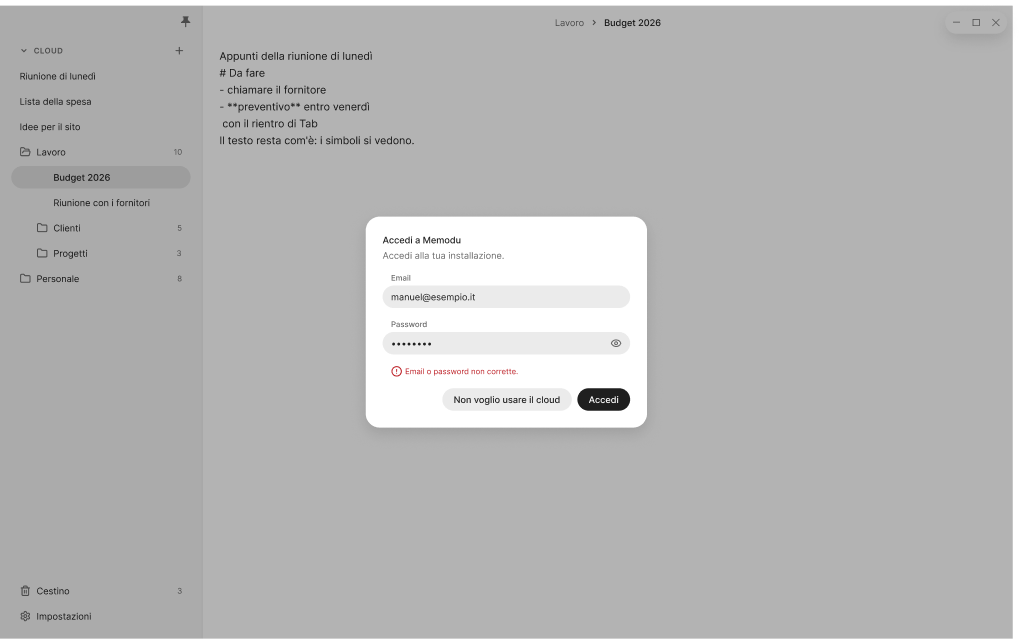
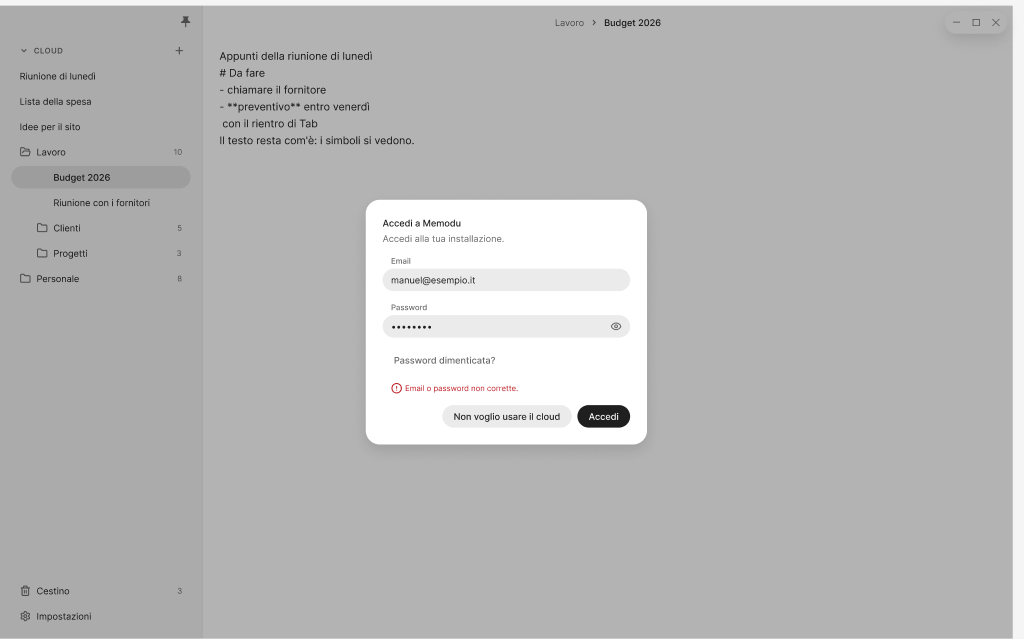
DEC-132: mockup del recupero, del cambio della password e dei dispositivi collegati

Changed region(s): [[0.3438, 0.2973, 0.6562, 0.7136], [0.5938, 0.5055, 0.625, 0.5352]]

diff --git a/docs/avanzamento.md b/docs/avanzamento.md
@@ -2,7 +2,7 @@
 
 <!-- Stato della documentazione (vedi "Lo stato della documentazione" nella guida). Si sovrascrive; le modifiche non vanno nello storico. Chi riprende il lavoro parte da qui. -->
 
-**Ultimo aggiornamento:** 14/10/2026 (account nel database per la prova (DEC-132): Fase 1 di RF-14 e RF-16 approvata; Fase 2 approvata (FL-14, FL-15, RB-97 … RB-100); Fase 3 approvata (EN-05, EN-06 e stati del dispositivo; email e cancellazione dell'account non dall'app); Fase 4 approvata (wireframe di SC-05 con il recupero, SC-08 Cambia password, SC-09 Dispositivi collegati, collegamenti nel box dell'account di SC-06), Fase 5 in corso: nella libreria CMP-33 Casella, CMP-34 Chiave da conservare, CMP-35 Cambia password, CMP-36 Dispositivi collegati, CMP-22 con Recupero e Chiave nuova, CMP-32 con i collegamenti (pulsanti tenui, scelta di Manuel Cucca); token raggio-casella approvato; libreria da pubblicare (la pubblica Manuel Cucca), poi i mockup; scenario d'uso approvato da Manuel Cucca, RF-16 da Should a Must, RF-10 con i blocchi separati per utente; la chiave nuova dopo un recupero la manda l'utente a Manuel Cucca; criteri di accettazione in Fase 8; idea ID-39, diario «a rete», da riprendere dopo. Prima, 09/10/2026: versione 1.1.0 di prova: numero di versione a 1.1.0 su `main` e tag `1.1.0` senza «v» (scelta di Manuel Cucca: il rilascio su GitHub non parte, la 1.0.0 ha la priorità), installata sul PC di Manuel Cucca. Prima, 09/10/2026: bollicina nelle note di rilascio della 1.1.0 (CHANGELOG) e nella guida per gli utenti (sezione «La bollicina del formato», nota rapida, Locale), approvate da Manuel Cucca; la bollicina è pronta per il rilascio con la 1.1.0, dopo la 1.0.0. Prima, 09/10/2026: bollicina: libreria pubblicata da Manuel Cucca, mockup di SC-02, SC-03 e del file `.md` di Locale aggiornati al ritocco ed esportati di nuovo; prossimo: il rilascio della 1.1.0 dopo la 1.0.0 (note di rilascio e guida con la bollicina). Prima, 09/10/2026: bollicina, libreria Figma aggiornata al ritocco (bollicina alta 32, nella nota rapida accanto a Chiudi, cassetto centrato o su due righe allineato in basso, anche nel codice), da pubblicare; poi i mockup. Prima, 09/10/2026: bollicina, attività 5 fatta: prove a mano TC-12, TC-167 … TC-171 e TC-173 superate nell'app di sviluppo, TC-172 superato; restano la libreria Figma e i mockup da aggiornare al ritocco grafico (con l'ok di Manuel Cucca), poi il rilascio con la 1.1.0. Prima, 09/10/2026: bollicina, attività 4 fatta: 8 prove automatiche dell'interfaccia (componente, nota aperta con l'editor vero, file `.md` e `.txt`, nota rapida), 274 prove in tutto; prossimo: attività 5, prove a mano. Prima, 09/10/2026: bollicina, attività 3 fatta: bollicina nella nota aperta, nella nota rapida (subito a sinistra di Chiudi, ritocco di Manuel Cucca) e nei file `.md`, alta 32 come gli altri pulsanti; provata nell'app di sviluppo; il formato acceso resta anche dopo uno spazio e quando il cursore torna nello stesso punto (266 prove); libreria Figma e mockup da aggiornare al ritocco; prossimo: attività 4, prove automatiche dell'interfaccia. Prima, 09/10/2026: bollicina, attività 2 fatta: componente `Bollicina.tsx` (CMP-10) con il cassetto su una o due righe, l'editor avvisa del formato e applica la voce scelta; prossimo: attività 3, la bollicina nella nota aperta, nella nota rapida e nei file `.md`. Prima, 09/10/2026: bollicina, attività 1 fatta: formato mostrato e comandi del cassetto in `formati.ts`, `<u>`, formato in attesa e `-[]` in `scrittura.ts`, 21 prove automatiche nuove (264 in tutto); prossimo: attività 2, la bollicina collegata all'editor. Prima, 09/10/2026: Fase 8 di RF-02 per la bollicina approvata; prossimo: attività 1 (comandi): TC-12 riscritto, TC-167 … TC-173, TC-11 e TC-13 rinviati con le scorciatoie; cinque attività di sviluppo. Prima, 09/10/2026: Fase 7 di RF-02 per la bollicina approvata; prossimo: Fase 8 (piano di test): editor CodeMirror confermato, comandi della bollicina sopra la libreria, scorciatoie rinviate da Manuel Cucca (vedi Rinvii). Prima, 09/10/2026: Fase 6 di RF-02 per la bollicina approvata; prossimo: Fase 7 (architettura): libreria pubblicata due volte (icone a tracciato unico e CMP-10; poi CMP-23 con la bollicina), file dei mockup aggiornato con i colori delle icone e i testi rimessi, mockup nuovi di SC-03 (bollicina chiusa, cassetto aperto, nota nuova con T), SC-02 (cassetto aperto) e del file `.md` di Locale; pillola e menu `/` SUPERATI. Prima, 09/10/2026: Fase 5 di RF-02 per la bollicina approvata: CMP-10 Bollicina del formato con le parti interne Bollicina e Cassetto, tre icone nuove, icone unite in un tracciato solo; libreria da pubblicare (la pubblica Manuel Cucca); prossimo: Fase 6, i mockup. Prima, 09/10/2026: Fase 4 di RF-02 per la bollicina approvata: SC-03 con la bollicina e il cassetto, SC-02 con la bollicina nella fascia in basso, il file `.md` di Locale. Prima, 09/10/2026: Fase 3 di RF-02 per la bollicina approvata: nessun attributo nuovo, i formati stanno nel Contenuto (RB-95). Prima, 09/10/2026: Fase 2 di RF-02 per la bollicina approvata: FL-02 con i tre modi di formattare, RB-93 … RB-96, SF-36 con il sottolineato. Prima, 09/10/2026: DEC-131: la bollicina del formato in vista Markdown, con il cassetto dei formati, le scorciatoie e `-[]`; Fase 1 di RF-02 approvata; prossimo: Fase 2 (flussi). Prima, 09/10/2026: ciclo 1.1.0: note di rilascio in CHANGELOG e guida per gli utenti aggiornate con la vista della nota; per scelta di Manuel Cucca la 1.1.0 si pubblica dopo la 1.0.0, che attende le prove sul Mac. Prima, 09/10/2026: ciclo 1.1.0, attività 5 fatta: prove a mano TC-10, TC-158 … TC-164 e TC-166 superate nell'app di sviluppo; in TC-10 il testo dopo i simboli di chiusura scritti a mano resta nel formato, comportamento previsto per Manuel Cucca; prossimo: 9 – Rilascio della 1.1.0. Prima, 09/10/2026: ciclo 1.1.0, attività 4 fatta: 7 prove automatiche dell'interfaccia per la vista, 248 prove passate, lint pulito; prossimo: attività 5, prove a mano. Prima, 09/10/2026: ciclo 1.1.0, attività 3 fatta: riga Vista in Info, vista nella nota aperta, nella nota rapida e in Locale per estensione; prossimo: attività 4, prove automatiche dell'interfaccia. Prima, 09/10/2026: ciclo 1.1.0, attività 2 fatta: l'editor con la vista Markdown, simboli nascosti e scrittura come in Word, 15 prove automatiche; prossimo: attività 3, l'interfaccia. Prima, 08/10/2026: ciclo 1.1.0: Fasi 1–8 della vista della nota fatte, piano di test TC-10 e TC-158 … TC-166, cinque attività di sviluppo; prossimo: attività 1, il nucleo. Prima, 08/10/2026: ciclo 1.1.0, DEC-130: ogni nota si vede come Testo o come Markdown, scelta nella comparsa Info e salvata con la nota; simboli nascosti e scrittura come in Word; Fase 1 di RF-02 con CA-02.2 e CA-02.14 … CA-02.19, più CA-17.25 per i file di Locale; prossimo: Fase 2 (flussi). Prima, 08/10/2026: DEC-129: la 1.0.0 attende le prove sul Mac sul ramo `rilascio/1.0`; su `main` si apre il ciclo della 1.1.0 con la formattazione Markdown di RF-02 (DEC-64, DEC-125); prima scelta: il motore dell'editor. Prima, 08/10/2026: Fase 9 conclusa: retrospettiva con SF-38 … SF-42 nel catalogo delle sfighe, ID-37 e ID-38 nel registro idee, DEC-128 e due aggiunte alla guida; prossimo: le prove sul Mac elencate in DEC-128, poi il rilascio della 1.0.0 quando lo decide Manuel Cucca. Prima, 08/10/2026: note di rilascio della 1.0.0 approvate. Prima, 08/10/2026: guida per gli utenti approvata; restano note di rilascio e retrospettiva, più le discordanze tra documenti e codice trovate scrivendo la guida. Prima, 07/10/2026: DEC-125: RF-02 (formattazione) e RF-03 (immagini) fuori dalla v1 personale; prossimo la Fase 9. Prima, 07/10/2026: RF-11 Interazioni rapide: criteri e piano di test approvati, prove TC-150 … TC-157 superate; Pronto per il rilascio (resta macOS, con ⌘). Prima, 07/10/2026: DEC-124 accettata e fatta: clic fuori sulle finestre col velo come Esc, manina su tutto ciò che si clicca; doppio occhio di Edge nel campo password tolto; rilasciati nella 0.1.13. Prima, 07/10/2026: rilascio 0.1.12 con la correzione della sincronizzazione dopo un archivio nuovo e il server che accetta solo il JWT. Prima, 07/10/2026: prove a mano del blocco 1 fatte dall'agente con app di sviluppo in parallelo: sincronizzazione TC-87 … TC-95 e TC-103 (con una correzione nel nucleo), scrivere TC-02, TC-03, TC-23, TC-24, TC-26, TC-27, TC-30, ricerca TC-74, Locale TC-104; restano le prove che vogliono gesti veri sul sistema o il Mac. Prima, 07/10/2026: verso la v1 personale, blocco 1 scelto da Manuel Cucca: produzione ripulita (gettone statico tolto dall'API), backup in sospeso, prove a mano fatte dall'agente avvisando prima di ognuna. Prima, 07/10/2026: DEC-123 accettata da Manuel Cucca: comparsa del file di Locale con Chiudi file e Togli da Locale; codice fatto e rilasciato nella 0.1.11, TC-146 e TC-148 superati. Prima, 07/10/2026: DEC-122 accettata da Manuel Cucca: impostazioni con il box dell'account in cima e le sezioni in riquadri; libreria approvata (CMP-31, CMP-32); codice fatto e rilasciato nella 0.1.10, TC-141 e TC-142 superati; restano TC-143 … TC-145 a mano. 0.1.9 installata sul PC Windows, note sul server tutte cifrate; da fare il Mac, TC-127, TC-136 e la rimozione di `MEMODU_IMPRONTA`. Prima, 06/10/2026: DEC-121 accettata da Manuel Cucca: accesso con email e password di un utente fisso e cifratura end-to-end, architettura temporanea e finale; documenti aggiornati, RF-14 e cifratura di RF-10 Pronti con criteri e piano di test approvati, la cifratura di RF-10 va in Fase 8; codice da fare. Prima, 04/10/2026: DEC-120 corretto dopo la prova di Manuel Cucca sulla 0.1.7: velo su tutta la finestra mentre si trascina da fuori, il file rilasciato non entra più nel testo aperto; rilasciato nella 0.1.8, installata sul PC di Manuel Cucca; TC-122 superato su Windows, da provare sul Mac; DEC-120: file e cartelle trascinati dentro Memodu vanno in Locale, trascinamento interno con il puntatore, 0.1.7 rilasciata e installata; DEC-119: sezione CLOUD con le non organizzate nella radice, note prima delle cartelle; libreria pubblicata (CMP-14, menu Aggiungi in CMP-09), mockup di SC-01, SC-03, SC-04, SC-06 e Locale aggiornati con le esportazioni; codice fatto il 04/10/2026 (`Colonna.tsx`, Sposta in, ricerca, ordine di Locale nel nucleo) e visto nell'app; RF-17 Locale progettato dalla Fase 1 alla 8 e scritto, DEC-115 … DEC-118; Ctrl + W e «Chiudi» per impostazioni e cestino, DEC-116, DEC-117; rilascio 0.1.4, installato su tutti e due i computer; TC-86 superato, le altre prove a mano della sincronizzazione messe da parte; criteri e piano di test della sincronizzazione approvati con DEC-109 … DEC-114, RF-10 senza cifratura e RF-14 Pronti; server di sincronizzazione su Vercel con Neon e due computer collegati; rilasci 0.1.2 e 0.1.3, con il testo della nota su tutta la larghezza (DEC-107); prima, 01/10/2026: allineamento generale della documentazione a decisioni e codice, con i dubbi raccolti per Manuel Cucca; CMP-25 in tutte le aree che scorrono, provata anche nella nota rapida; DEC-102 Ctrl + \ fissa la colonna, provata su Windows, da provare su macOS; DEC-99 icona della cartella e DEC-100 spazi dal ruolo del contenitore: libreria, mockup e codice allineati e misurati nell'app; DEC-97: Info più snella e due regole per gli spazi dei contenitori, in libreria e nel codice; prossimo: la pubblicazione della libreria e i mockup; DEC-96: Info sotto il titolo e ricerca avanzata, libreria allineata; RF-08 Ricerca: prove a mano nell'app e correzione dei due difetti trovati; prossimo: le prove che vogliono Manuel Cucca, poi Fase 9)
+**Ultimo aggiornamento:** 14/10/2026 (account nel database per la prova (DEC-132): Fase 1 di RF-14 e RF-16 approvata; Fase 2 approvata (FL-14, FL-15, RB-97 … RB-100); Fase 3 approvata (EN-05, EN-06 e stati del dispositivo; email e cancellazione dell'account non dall'app); Fase 4 approvata (wireframe di SC-05 con il recupero, SC-08 Cambia password, SC-09 Dispositivi collegati, collegamenti nel box dell'account di SC-06), Fase 5 in corso: nella libreria CMP-33 Casella, CMP-34 Chiave da conservare, CMP-35 Cambia password, CMP-36 Dispositivi collegati, CMP-22 con Recupero e Chiave nuova, CMP-32 con i collegamenti (pulsanti tenui, scelta di Manuel Cucca); token raggio-casella approvato; Fase 5 chiusa con la libreria pubblicata da Manuel Cucca; Fase 6: mockup di SC-05 (recupero, chiave nuova), SC-08, SC-09 e SC-06 aggiornati, da approvare; scenario d'uso approvato da Manuel Cucca, RF-16 da Should a Must, RF-10 con i blocchi separati per utente; la chiave nuova dopo un recupero la manda l'utente a Manuel Cucca; criteri di accettazione in Fase 8; idea ID-39, diario «a rete», da riprendere dopo. Prima, 09/10/2026: versione 1.1.0 di prova: numero di versione a 1.1.0 su `main` e tag `1.1.0` senza «v» (scelta di Manuel Cucca: il rilascio su GitHub non parte, la 1.0.0 ha la priorità), installata sul PC di Manuel Cucca. Prima, 09/10/2026: bollicina nelle note di rilascio della 1.1.0 (CHANGELOG) e nella guida per gli utenti (sezione «La bollicina del formato», nota rapida, Locale), approvate da Manuel Cucca; la bollicina è pronta per il rilascio con la 1.1.0, dopo la 1.0.0. Prima, 09/10/2026: bollicina: libreria pubblicata da Manuel Cucca, mockup di SC-02, SC-03 e del file `.md` di Locale aggiornati al ritocco ed esportati di nuovo; prossimo: il rilascio della 1.1.0 dopo la 1.0.0 (note di rilascio e guida con la bollicina). Prima, 09/10/2026: bollicina, libreria Figma aggiornata al ritocco (bollicina alta 32, nella nota rapida accanto a Chiudi, cassetto centrato o su due righe allineato in basso, anche nel codice), da pubblicare; poi i mockup. Prima, 09/10/2026: bollicina, attività 5 fatta: prove a mano TC-12, TC-167 … TC-171 e TC-173 superate nell'app di sviluppo, TC-172 superato; restano la libreria Figma e i mockup da aggiornare al ritocco grafico (con l'ok di Manuel Cucca), poi il rilascio con la 1.1.0. Prima, 09/10/2026: bollicina, attività 4 fatta: 8 prove automatiche dell'interfaccia (componente, nota aperta con l'editor vero, file `.md` e `.txt`, nota rapida), 274 prove in tutto; prossimo: attività 5, prove a mano. Prima, 09/10/2026: bollicina, attività 3 fatta: bollicina nella nota aperta, nella nota rapida (subito a sinistra di Chiudi, ritocco di Manuel Cucca) e nei file `.md`, alta 32 come gli altri pulsanti; provata nell'app di sviluppo; il formato acceso resta anche dopo uno spazio e quando il cursore torna nello stesso punto (266 prove); libreria Figma e mockup da aggiornare al ritocco; prossimo: attività 4, prove automatiche dell'interfaccia. Prima, 09/10/2026: bollicina, attività 2 fatta: componente `Bollicina.tsx` (CMP-10) con il cassetto su una o due righe, l'editor avvisa del formato e applica la voce scelta; prossimo: attività 3, la bollicina nella nota aperta, nella nota rapida e nei file `.md`. Prima, 09/10/2026: bollicina, attività 1 fatta: formato mostrato e comandi del cassetto in `formati.ts`, `<u>`, formato in attesa e `-[]` in `scrittura.ts`, 21 prove automatiche nuove (264 in tutto); prossimo: attività 2, la bollicina collegata all'editor. Prima, 09/10/2026: Fase 8 di RF-02 per la bollicina approvata; prossimo: attività 1 (comandi): TC-12 riscritto, TC-167 … TC-173, TC-11 e TC-13 rinviati con le scorciatoie; cinque attività di sviluppo. Prima, 09/10/2026: Fase 7 di RF-02 per la bollicina approvata; prossimo: Fase 8 (piano di test): editor CodeMirror confermato, comandi della bollicina sopra la libreria, scorciatoie rinviate da Manuel Cucca (vedi Rinvii). Prima, 09/10/2026: Fase 6 di RF-02 per la bollicina approvata; prossimo: Fase 7 (architettura): libreria pubblicata due volte (icone a tracciato unico e CMP-10; poi CMP-23 con la bollicina), file dei mockup aggiornato con i colori delle icone e i testi rimessi, mockup nuovi di SC-03 (bollicina chiusa, cassetto aperto, nota nuova con T), SC-02 (cassetto aperto) e del file `.md` di Locale; pillola e menu `/` SUPERATI. Prima, 09/10/2026: Fase 5 di RF-02 per la bollicina approvata: CMP-10 Bollicina del formato con le parti interne Bollicina e Cassetto, tre icone nuove, icone unite in un tracciato solo; libreria da pubblicare (la pubblica Manuel Cucca); prossimo: Fase 6, i mockup. Prima, 09/10/2026: Fase 4 di RF-02 per la bollicina approvata: SC-03 con la bollicina e il cassetto, SC-02 con la bollicina nella fascia in basso, il file `.md` di Locale. Prima, 09/10/2026: Fase 3 di RF-02 per la bollicina approvata: nessun attributo nuovo, i formati stanno nel Contenuto (RB-95). Prima, 09/10/2026: Fase 2 di RF-02 per la bollicina approvata: FL-02 con i tre modi di formattare, RB-93 … RB-96, SF-36 con il sottolineato. Prima, 09/10/2026: DEC-131: la bollicina del formato in vista Markdown, con il cassetto dei formati, le scorciatoie e `-[]`; Fase 1 di RF-02 approvata; prossimo: Fase 2 (flussi). Prima, 09/10/2026: ciclo 1.1.0: note di rilascio in CHANGELOG e guida per gli utenti aggiornate con la vista della nota; per scelta di Manuel Cucca la 1.1.0 si pubblica dopo la 1.0.0, che attende le prove sul Mac. Prima, 09/10/2026: ciclo 1.1.0, attività 5 fatta: prove a mano TC-10, TC-158 … TC-164 e TC-166 superate nell'app di sviluppo; in TC-10 il testo dopo i simboli di chiusura scritti a mano resta nel formato, comportamento previsto per Manuel Cucca; prossimo: 9 – Rilascio della 1.1.0. Prima, 09/10/2026: ciclo 1.1.0, attività 4 fatta: 7 prove automatiche dell'interfaccia per la vista, 248 prove passate, lint pulito; prossimo: attività 5, prove a mano. Prima, 09/10/2026: ciclo 1.1.0, attività 3 fatta: riga Vista in Info, vista nella nota aperta, nella nota rapida e in Locale per estensione; prossimo: attività 4, prove automatiche dell'interfaccia. Prima, 09/10/2026: ciclo 1.1.0, attività 2 fatta: l'editor con la vista Markdown, simboli nascosti e scrittura come in Word, 15 prove automatiche; prossimo: attività 3, l'interfaccia. Prima, 08/10/2026: ciclo 1.1.0: Fasi 1–8 della vista della nota fatte, piano di test TC-10 e TC-158 … TC-166, cinque attività di sviluppo; prossimo: attività 1, il nucleo. Prima, 08/10/2026: ciclo 1.1.0, DEC-130: ogni nota si vede come Testo o come Markdown, scelta nella comparsa Info e salvata con la nota; simboli nascosti e scrittura come in Word; Fase 1 di RF-02 con CA-02.2 e CA-02.14 … CA-02.19, più CA-17.25 per i file di Locale; prossimo: Fase 2 (flussi). Prima, 08/10/2026: DEC-129: la 1.0.0 attende le prove sul Mac sul ramo `rilascio/1.0`; su `main` si apre il ciclo della 1.1.0 con la formattazione Markdown di RF-02 (DEC-64, DEC-125); prima scelta: il motore dell'editor. Prima, 08/10/2026: Fase 9 conclusa: retrospettiva con SF-38 … SF-42 nel catalogo delle sfighe, ID-37 e ID-38 nel registro idee, DEC-128 e due aggiunte alla guida; prossimo: le prove sul Mac elencate in DEC-128, poi il rilascio della 1.0.0 quando lo decide Manuel Cucca. Prima, 08/10/2026: note di rilascio della 1.0.0 approvate. Prima, 08/10/2026: guida per gli utenti approvata; restano note di rilascio e retrospettiva, più le discordanze tra documenti e codice trovate scrivendo la guida. Prima, 07/10/2026: DEC-125: RF-02 (formattazione) e RF-03 (immagini) fuori dalla v1 personale; prossimo la Fase 9. Prima, 07/10/2026: RF-11 Interazioni rapide: criteri e piano di test approvati, prove TC-150 … TC-157 superate; Pronto per il rilascio (resta macOS, con ⌘). Prima, 07/10/2026: DEC-124 accettata e fatta: clic fuori sulle finestre col velo come Esc, manina su tutto ciò che si clicca; doppio occhio di Edge nel campo password tolto; rilasciati nella 0.1.13. Prima, 07/10/2026: rilascio 0.1.12 con la correzione della sincronizzazione dopo un archivio nuovo e il server che accetta solo il JWT. Prima, 07/10/2026: prove a mano del blocco 1 fatte dall'agente con app di sviluppo in parallelo: sincronizzazione TC-87 … TC-95 e TC-103 (con una correzione nel nucleo), scrivere TC-02, TC-03, TC-23, TC-24, TC-26, TC-27, TC-30, ricerca TC-74, Locale TC-104; restano le prove che vogliono gesti veri sul sistema o il Mac. Prima, 07/10/2026: verso la v1 personale, blocco 1 scelto da Manuel Cucca: produzione ripulita (gettone statico tolto dall'API), backup in sospeso, prove a mano fatte dall'agente avvisando prima di ognuna. Prima, 07/10/2026: DEC-123 accettata da Manuel Cucca: comparsa del file di Locale con Chiudi file e Togli da Locale; codice fatto e rilasciato nella 0.1.11, TC-146 e TC-148 superati. Prima, 07/10/2026: DEC-122 accettata da Manuel Cucca: impostazioni con il box dell'account in cima e le sezioni in riquadri; libreria approvata (CMP-31, CMP-32); codice fatto e rilasciato nella 0.1.10, TC-141 e TC-142 superati; restano TC-143 … TC-145 a mano. 0.1.9 installata sul PC Windows, note sul server tutte cifrate; da fare il Mac, TC-127, TC-136 e la rimozione di `MEMODU_IMPRONTA`. Prima, 06/10/2026: DEC-121 accettata da Manuel Cucca: accesso con email e password di un utente fisso e cifratura end-to-end, architettura temporanea e finale; documenti aggiornati, RF-14 e cifratura di RF-10 Pronti con criteri e piano di test approvati, la cifratura di RF-10 va in Fase 8; codice da fare. Prima, 04/10/2026: DEC-120 corretto dopo la prova di Manuel Cucca sulla 0.1.7: velo su tutta la finestra mentre si trascina da fuori, il file rilasciato non entra più nel testo aperto; rilasciato nella 0.1.8, installata sul PC di Manuel Cucca; TC-122 superato su Windows, da provare sul Mac; DEC-120: file e cartelle trascinati dentro Memodu vanno in Locale, trascinamento interno con il puntatore, 0.1.7 rilasciata e installata; DEC-119: sezione CLOUD con le non organizzate nella radice, note prima delle cartelle; libreria pubblicata (CMP-14, menu Aggiungi in CMP-09), mockup di SC-01, SC-03, SC-04, SC-06 e Locale aggiornati con le esportazioni; codice fatto il 04/10/2026 (`Colonna.tsx`, Sposta in, ricerca, ordine di Locale nel nucleo) e visto nell'app; RF-17 Locale progettato dalla Fase 1 alla 8 e scritto, DEC-115 … DEC-118; Ctrl + W e «Chiudi» per impostazioni e cestino, DEC-116, DEC-117; rilascio 0.1.4, installato su tutti e due i computer; TC-86 superato, le altre prove a mano della sincronizzazione messe da parte; criteri e piano di test della sincronizzazione approvati con DEC-109 … DEC-114, RF-10 senza cifratura e RF-14 Pronti; server di sincronizzazione su Vercel con Neon e due computer collegati; rilasci 0.1.2 e 0.1.3, con il testo della nota su tutta la larghezza (DEC-107); prima, 01/10/2026: allineamento generale della documentazione a decisioni e codice, con i dubbi raccolti per Manuel Cucca; CMP-25 in tutte le aree che scorrono, provata anche nella nota rapida; DEC-102 Ctrl + \ fissa la colonna, provata su Windows, da provare su macOS; DEC-99 icona della cartella e DEC-100 spazi dal ruolo del contenitore: libreria, mockup e codice allineati e misurati nell'app; DEC-97: Info più snella e due regole per gli spazi dei contenitori, in libreria e nel codice; prossimo: la pubblicazione della libreria e i mockup; DEC-96: Info sotto il titolo e ricerca avanzata, libreria allineata; RF-08 Ricerca: prove a mano nell'app e correzione dei due difetti trovati; prossimo: le prove che vogliono Manuel Cucca, poi Fase 9)
 
 ## Pacchetti e frammenti
 
@@ -21,7 +21,7 @@ Perimetro: note solo cloud più un editor di file locali non sincronizzati (DEC-
 | Locale (DEC-115, DEC-123) | RF-17 | 1–8; codice fatto il 04/10/2026 | DEC-123: fatto; TC-146 … TC-149 superati il 07/10/2026 (codice fatto e rilasciato nella 0.1.11 il 07/10/2026, TC-146 e TC-148 superati); poi prove a mano di Manuel Cucca | **DEC-123 del 07/10/2026:** clic sul nome di un file nel percorso apre una comparsa come Info con il nome, Chiudi file e, per un file aggiunto da solo, Togli da Locale. **Codice fatto il 04/10/2026:** nucleo `archivio_locale.rs` e `locale.rs` (schema 6, 16 prove), interfaccia `client/src/locale/` (7 prove); provato nell'app con una cartella dei dati di prova: apertura, pallino, Ctrl + S, file cambiato fuori, UTF-8, CRLF, file troppo grande, sola lettura, file nuovo, menu, Cestino di Windows. Prove a mano del 05/10/2026 nell'app installata (0.1.8) su Windows (agente, cartella dei dati di prova): superati TC-104 (tranne il secondo computer), TC-105, TC-106, TC-107, TC-113, TC-115, TC-117, TC-119, TC-123; **TC-114 non superato**: su un disco senza Cestino (provato su una condivisione di rete) Elimina cancellava per sempre senza la conferma; corretto nel nucleo il 05/10/2026 (solo i dischi fissi di Windows vanno nel Cestino), provato nell'app compilata e superato, non ancora rilasciato; resta la prova con una chiavetta vera (vedi `moduli/locale/8-test.md`). Scelte di Manuel Cucca del 04/10/2026 in `moduli/locale/1-requisiti.md`: voce Locale nella colonna con le cartelle aggiunte, solo .md e .txt, crea, rinomina, sposta ed elimina sul disco (nel Cestino del sistema), salvataggio con Ctrl + S, avviso se il file cambia fuori, niente tag, ricerca, cestino né sincronizzazione; elenco delle cartelle per computer. Fase 1 chiusa il 04/10/2026 con lo scenario d'uso; Manuel Cucca ha scelto di progettarlo subito |
 | Vista della nota · 1.1.0 (DEC-129, DEC-130) | RF-02 (CA-02.2, CA-02.14 … CA-02.20), CA-17.25 | 1, 2, 3, 4, 5, 6, 7, 8 | Pronto per il rilascio, dopo la 1.0.0 (attività 1 … 5 fatte: il nucleo il 08/10/2026, le altre il 09/10/2026; prove a mano TC-10, TC-158 … TC-164 e TC-166 superate, TC-165 in prova automatica) | Su `main`; la 1.0.0 attende le prove sul Mac sul ramo `rilascio/1.0`. **Attività:** (1) nucleo: schema 7 con `vista`, note nuove in `markdown`, `cambia_vista`, sincronizzazione con RB-92, prove del nucleo (TC-165); (2) editor: compartimento Markdown in `Editor.tsx` con la resa da `anteprima.ts`, simboli atomici, ai bordi e Invio e Backspace come in Word, casella cliccabile (CA-02.2, CA-02.15 … CA-02.20); (3) interfaccia: riga Vista in Info con `SceltaSegmenti`, vista nella nota aperta, nella nota rapida e in Locale per estensione (CA-02.14, CA-17.25); (4) prove automatiche dell'interfaccia e lint; (5) prove a mano TC-10, TC-158 … TC-166, poi 9 – Rilascio della 1.1.0 |
 | Bollicina del formato (DEC-131) | RF-02 (CA-02.3 … CA-02.5, CA-02.21 … CA-02.25) | 1, 2, 3, 4, 5, 6, 7, 8 | Pronto per il rilascio, con la 1.1.0 | Su `main`, dopo la vista della nota. Sostituisce la pillola degli strumenti (CMP-10). Attività di sviluppo: 1) formato mostrato e comandi in `formati.ts`, `<u>` e `-[]` in `scrittura.ts`, con le prove automatiche (TC-172); 2) componente `Bollicina.tsx` e collegamento con l'editor; 3) nota aperta, nota rapida e file `.md`; 4) prove automatiche dell'interfaccia; 5) prove a mano (TC-12, TC-167 … TC-171, TC-173) |
-| Account nel database per la prova (DEC-132) | RF-14, RF-16, RF-10 | 1, 2, 3, 4 | 5 – Componenti | Fase 1 approvata da Manuel Cucca il 14/10/2026; Fase 2 approvata da Manuel Cucca il 14/10/2026: FL-08 aggiornato, FL-14 (cambio della password e recupero), FL-15 (dispositivi e chiusura a distanza), RB-97 … RB-100; creazione dell'account rinviata |
+| Account nel database per la prova (DEC-132) | RF-14, RF-16, RF-10 | 1, 2, 3, 4, 5 | 6 – Mockup, da approvare | Fase 1 approvata da Manuel Cucca il 14/10/2026; Fase 2 approvata da Manuel Cucca il 14/10/2026: FL-08 aggiornato, FL-14 (cambio della password e recupero), FL-15 (dispositivi e chiusura a distanza), RB-97 … RB-100; creazione dell'account rinviata |
 | Should | RF-07, RF-09, RF-12, RF-13, RF-16 | — | 1 – Requisiti | Mancano gli scenari d'uso |
 
 ### Idee parcheggiate

diff --git a/docs/moduli/interfaccia/4-schermate.md b/docs/moduli/interfaccia/4-schermate.md
@@ -113,7 +113,7 @@ Si apre dalla riga **Impostazioni** in fondo alla colonna, sotto il Cestino, al 
 | Generale | Scorciatoia della nota rapida: clic sul campo e si preme la combinazione nuova; se un altro programma la usa già lo si dice e resta la vecchia; «Ripristina» torna al default (separata per Windows e macOS e sincronizzata, RB-52). Avvia Memodu all'accensione: interruttore, spento di default, solo su questo dispositivo. Tieni Memodu in primo piano: interruttore, spento di default, solo su questo dispositivo; la finestra principale resta sopra gli altri programmi (DEC-93, resta qui per DEC-122). Tema: Sistema · Chiaro · Scuro, di default Sistema; solo su questo dispositivo |
 | Ricerca | «Mostra le note del cestino nei risultati»: interruttore, acceso di default, sincronizzato come la scorciatoia (RB-29, RB-52, DEC-94) |
 
-Con DEC-132 nel box dell'account, sotto l'email e lo stato, ci sono i collegamenti «Cambia password» (apre SC-08) e «Dispositivi collegati» (apre SC-09), solo dopo l'accesso (scelta di Manuel Cucca il 14/10/2026; [wireframe aggiornato](https://www.figma.com/design/ioeRDMTxu3TEMoLN8rinAK/Memodu--Wireframe--Fase-4-?node-id=75-260), esportazione `immagini/SC-06-collegato.png` rifatta il 14/10/2026; mockup da rifare in Fase 6).
+Con DEC-132 nel box dell'account, sotto l'email e lo stato, ci sono i collegamenti «Cambia password» (apre SC-08) e «Dispositivi collegati» (apre SC-09), solo dopo l'accesso (scelta di Manuel Cucca il 14/10/2026; [wireframe aggiornato](https://www.figma.com/design/ioeRDMTxu3TEMoLN8rinAK/Memodu--Wireframe--Fase-4-?node-id=75-260), esportazione `immagini/SC-06-collegato.png` rifatta il 14/10/2026; mockup aggiornati alla libreria il 14/10/2026, esportazioni `immagini/SC-06-mockup.png`, `immagini/SC-06-scorciatoia-usata-mockup.png`, `immagini/SC-06-non-raggiungibile-mockup.png` rifatte).
 
 Le sezioni Sincronizzazione, Tema e Dispositivo non ci sono più (DEC-122): stato, account e nome del dispositivo stanno nel box dell'account, il tema in Generale.
 

diff --git a/docs/registri/storico.md b/docs/registri/storico.md
@@ -545,3 +545,4 @@
 | 14/10/2026 | Manuel Cucca | Fase 5 di DEC-132: inventario dei componenti approvato; per i collegamenti si usa il pulsante tenue (CMP-01) così com'è, senza un componente nuovo | DEC-132 |
 | 14/10/2026 | Manuel Cucca | Fase 5 di DEC-132: casella quadrata come nei wireframe (CMP-33) e via libera ai componenti composti nuovi (CMP-34 Chiave da conservare, CMP-35 Cambia password, CMP-36 Dispositivi collegati) | DEC-132 |
 | 14/10/2026 | Manuel Cucca | Componenti dell'account approvati; token nuovo `raggio-casella` = 4 per la casella quadrata | DEC-132 |
+| 14/10/2026 | Manuel Cucca | Fase 5 di DEC-132 chiusa: libreria pubblicata con CMP-33 … CMP-36, CMP-22 e CMP-32 aggiornati | DEC-132 |
